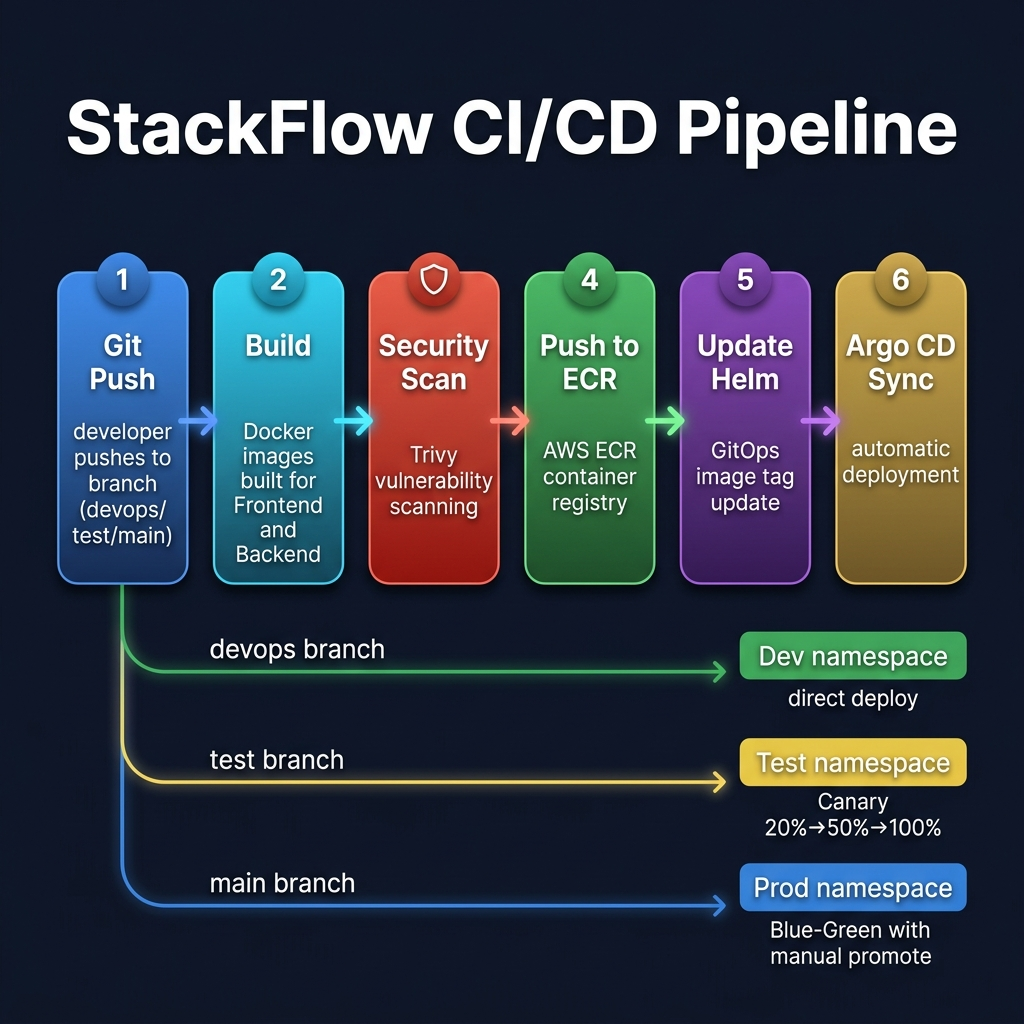
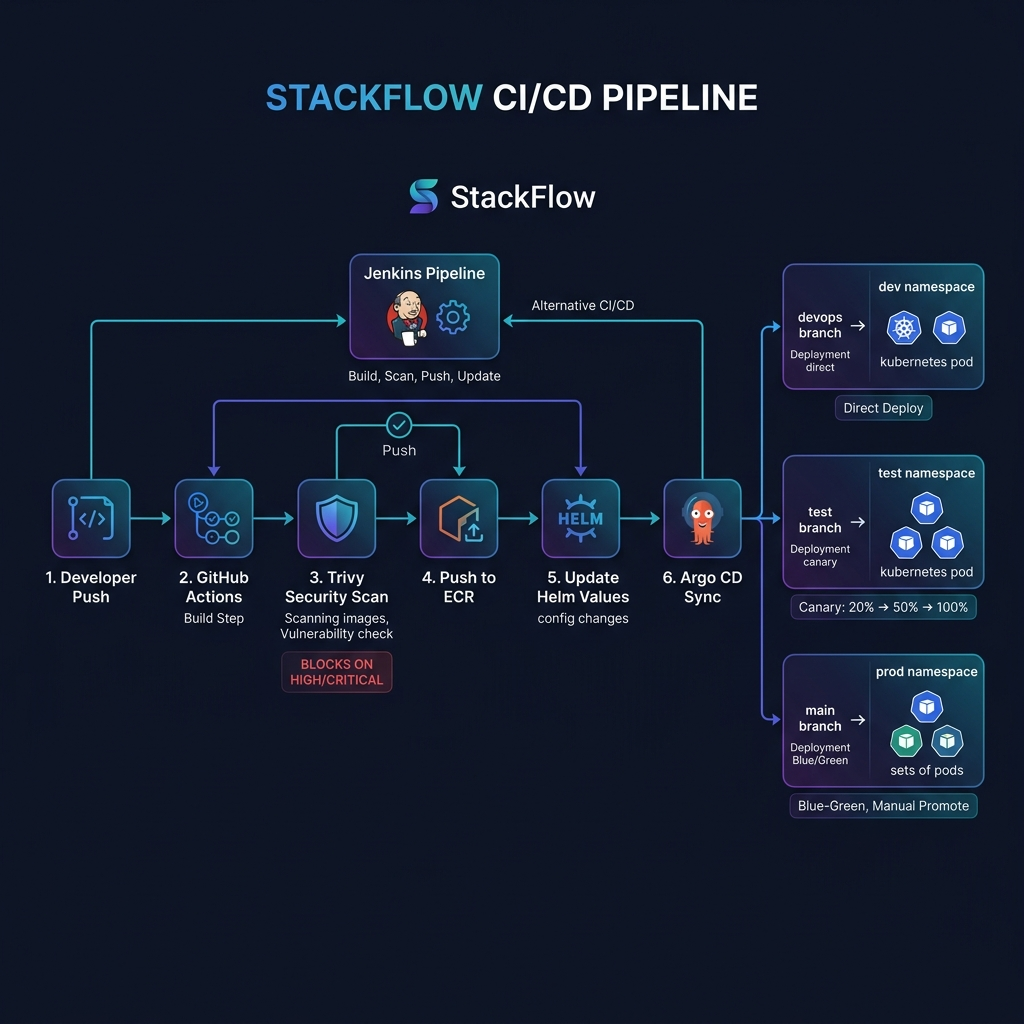
docs: update readme with mermaid diagram and new images

diff --git a/README.md b/README.md
@@ -4,19 +4,45 @@ A 3-tier DevSecOps project running on AWS EKS. Built this to learn and demonstra
 
 The app itself is simple (React + Node.js + PostgreSQL), but the infra around it is production-grade.
 
-## Tech Stack
+## Architecture
 
-- **App:** React (Vite), Node.js/Express, PostgreSQL
-- **Infra:** Terraform, AWS (EKS, RDS, ALB, VPC, CloudWatch)
-- **CI/CD:** GitHub Actions, Jenkins, Argo CD
-- **Containers:** Docker, Helm, Karpenter
-- **Security:** Trivy, OPA Gatekeeper, Snyk
-- **Observability:** Prometheus, Grafana, Loki, Jaeger, OpenTelemetry
+```mermaid
+graph TB
+    Dev[Developer] -->|push| GH[GitHub]
+    GH -->|trigger| GA[GitHub Actions]
+    GA -->|build| Docker[Docker Build]
+    Docker -->|scan| Trivy[Trivy Scan]
+    Trivy -->|pass| ECR[AWS ECR]
+    ECR -->|pull| ArgoCD[Argo CD]
 
-## How it works
+    subgraph EKS["AWS EKS Cluster"]
+        ArgoCD -->|sync| Dev_NS[dev namespace]
+        ArgoCD -->|canary| Test_NS[test namespace]
+        ArgoCD -->|blue-green| Prod_NS[prod namespace]
+        Karpenter[Karpenter] -->|manage| Spot[Spot Nodes - Graviton]
+        Karpenter -->|manage| OnDemand[On-Demand Nodes]
+        NightSched[Night Scheduler] -->|scale down 10PM| Dev_NS
+        NightSched -->|scale down 10PM| Test_NS
+    end
+
+    subgraph Observability
+        Prom[Prometheus] --> Grafana[Grafana]
+        Loki[Loki + Promtail] --> Grafana
+        Jaeger[Jaeger] --> Grafana
+        Prom --> AM[AlertManager] --> Slack[Slack]
+    end
+
+    ALB[ALB - TLS 1.3] --> EKS
+    EKS --> RDS["RDS PostgreSQL (private subnet)"]
+    NGINX[NGINX Ingress] --> EKS
+```
+
+## CI/CD Pipeline
+
+![CI/CD Pipeline](docs/images/cicd-pipeline.png)
 
 ```
-push code → GitHub Actions builds image → Trivy scans it → pushes to ECR → Argo CD syncs to EKS
+push code → GitHub Actions builds → Trivy scans → pushes to ECR → Argo CD syncs to EKS
 ```
 
 Three environments, three branches:
@@ -26,6 +52,25 @@ Three environments, three branches:
 | devops | dev namespace | direct deploy |
 | test | test namespace | canary (20→50→100%) |
 | main | prod namespace | blue-green |
+
+## Observability
+
+![Observability Stack](docs/images/observability.png)
+
+| Pillar | Stack |
+|--------|-------|
+| Metrics | Backend /metrics → Prometheus → Grafana → AlertManager → Slack |
+| Logging | Loki + Promtail (replaced ELK, uses 200mb vs 4gb) |
+| Tracing | OpenTelemetry SDK → OTel Collector → Jaeger |
+
+## Tech Stack
+
+- **App:** React (Vite), Node.js/Express, PostgreSQL
+- **Infra:** Terraform, AWS (EKS, RDS, ALB, VPC, CloudWatch)
+- **CI/CD:** GitHub Actions, Jenkins, Argo CD
+- **Containers:** Docker, Helm, Karpenter
+- **Security:** Trivy, OPA Gatekeeper, Snyk
+- **Observability:** Prometheus, Grafana, Loki, Jaeger, OpenTelemetry
 
 ## Run locally
 
@@ -71,8 +116,6 @@ terraform/
   alb.tf         https with acm cert, tls 1.3
   iam.tf         eks roles, data source policy lookups
   cloudwatch.tf  cpu alarm + sns notification
-  variables.tf
-  outputs.tf
 
 helm/stackflow/
   values.yaml        base values (nginx ingress, right-sized resources)
@@ -83,37 +126,34 @@ helm/stackflow/
 k8s/
   karpenter-provisioner.yaml   spot-first node scheduling
   night-scheduler.yaml         scales down dev/test at 10pm IST
-  namespace.yaml               dev, test, prod namespaces
 
 gitops/apps/
-  dev.yaml     argo cd app pointing to devops branch
-  test.yaml    argo cd app pointing to test branch
-  prod.yaml    argo cd app pointing to main branch
+  dev.yaml     argo cd app → devops branch
+  test.yaml    argo cd app → test branch
+  prod.yaml    argo cd app → main branch
 
 observability/
-  logging/     loki + promtail (replaced elk, uses 200mb instead of 4gb)
+  logging/     loki + promtail
   monitoring/  grafana dashboards
-  tracing/     jaeger + otel collector config
+  tracing/     jaeger + otel collector
   alerting/    alertmanager → slack
 
 security/
   trivy/       image scan config
-  opa/         admission policies (no root, resource limits)
+  opa/         admission policies
   snyk/        dependency scanning
 
-cicd/jenkins/  jenkinsfile + deploy scripts (canary, rollback)
+cicd/jenkins/  jenkinsfile + deploy scripts
 scripts/       setup, bootstrap, deploy, cleanup
 ```
 
-## Cost stuff
-
-Designed to not blow up your AWS bill:
+## Cost optimization
 
 | What | Why |
 |------|-----|
 | Spot instances | 70-90% cheaper compute |
 | Graviton (ARM) | t4g is 20-30% cheaper than t3 |
-| No NAT gateway | saves ~$32/month (dev only, prod should have it) |
+| No NAT gateway | saves ~$32/month (dev only) |
 | Loki not ELK | 200mb ram vs 4gb |
 | gp3 storage | cheaper than gp2, better iops |
 | Night scheduler | scales down at 10pm, up at 8am |
@@ -126,32 +166,25 @@ Rough cost: ~$10-25/month after optimization. Free tier with docker-compose.
 ```bash
 cd terraform
 export TF_VAR_db_password="YourPassword"
-terraform init
-terraform plan
-terraform apply
+terraform init && terraform apply
 
-# then bootstrap eks
 ./scripts/eks-bootstrap.sh
-
-# deploy apps via gitops
 kubectl apply -f gitops/apps/
 ```
 
 ## Security
 
-- Trivy scans images before push (blocks on HIGH/CRITICAL)
-- OPA enforces runAsNonRoot, resource limits
-- Secrets in AWS Secrets Manager, not in code
+- Trivy scans before push (blocks HIGH/CRITICAL)
 - Docker containers run with `no-new-privileges` and `read_only`
-- RDS encrypted, private subnet only
+- Secrets in AWS Secrets Manager
+- RDS encrypted, private subnet
 - TLS 1.3 on ALB
+- OPA enforces runAsNonRoot
 
 ## Cleanup
 
 ```bash
 terraform destroy
-# or
-./scripts/cleanup.sh
 ```
 
 ---
